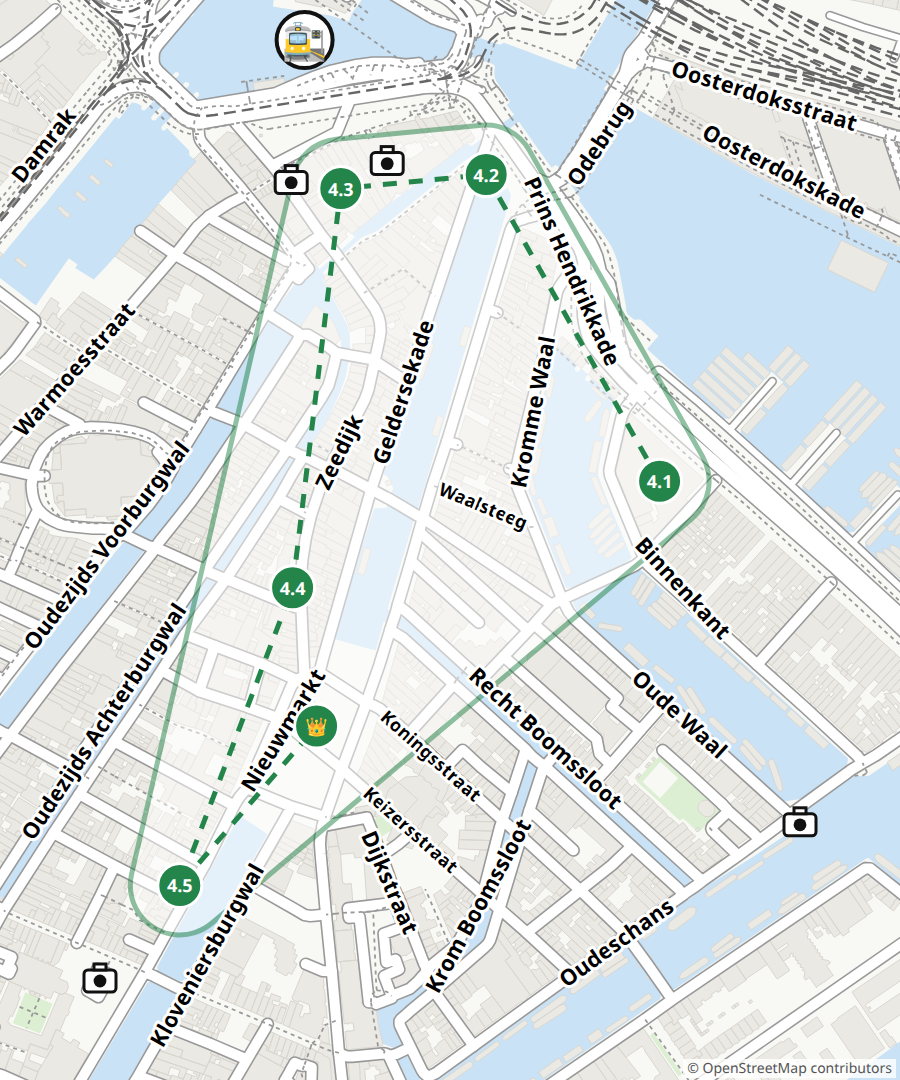
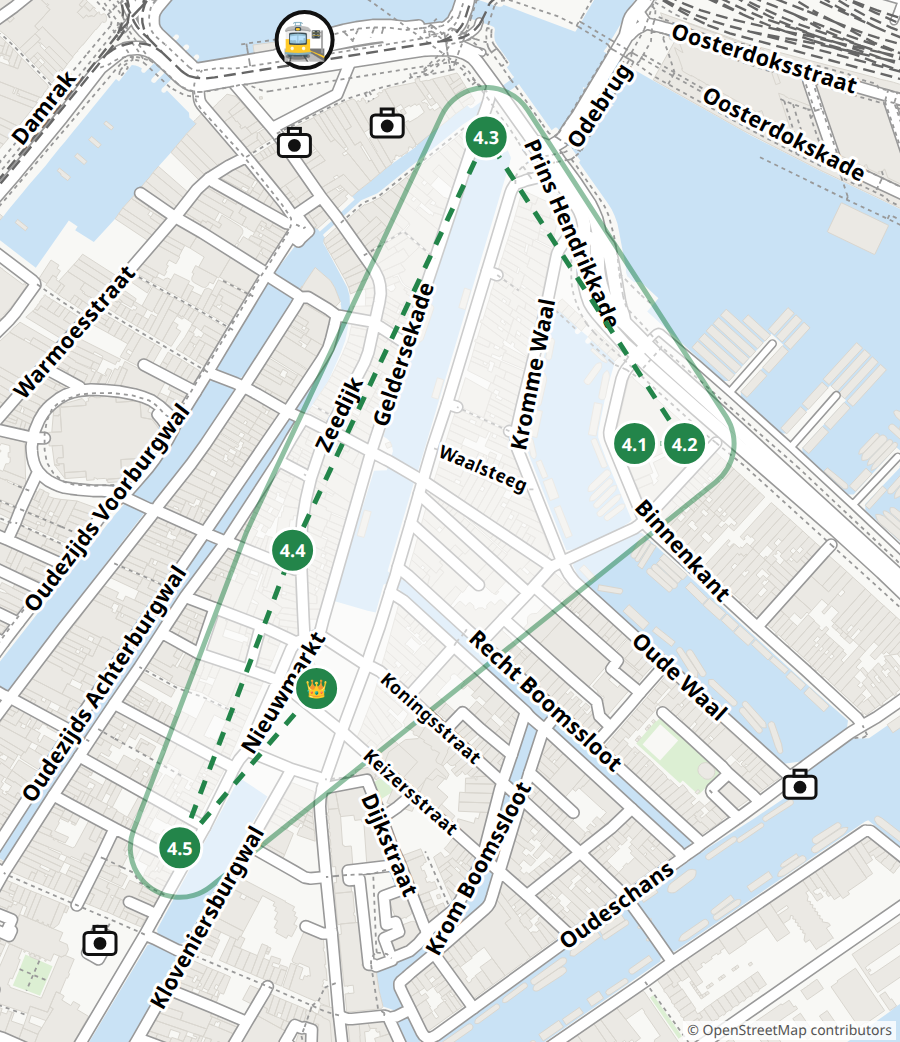
Zone-wide photo hunts without a clock (3.1, 4.1 now first in zone 4); kid cards sit 15 mm off the cut for ring-binder holes; gold city medal sticker for the certificate on the stickers sheet

diff --git a/.claude/skills/city-quest/scripts/build_stickers.py b/.claude/skills/city-quest/scripts/build_stickers.py
@@ -2,24 +2,26 @@
 """Render round zone-capture stickers for one or more quests onto A4: a PDF for sticker paper.
 
 Usage:
-    python3 build_stickers.py path/to/quest.json [more/quest.json …] [--big 3] [--small 2] [--out FILE]
+    python3 build_stickers.py path/to/quest.json [more/quest.json …] [--big 3] [--small 2] [--medal 1] [--out FILE]
 
 Print in colour on A4 sticker paper at 100 % scale and cut along the thin grey circles.
 Every zone gets a block: `--big` stickers of 18 mm (they cover the "sticker" circle on the
 zone card; a spare goes in the collection) and `--small` stickers of 10 mm (for the zone on
 the city map). Each zone has its own colour, the same as in the colour booklet; the big sticker shows "CLAIMED" on top, the zone
-number below and the zone emoji in the middle. Several quests share the sheet to save paper.
+number below and the zone emoji in the middle. Every quest also gets `--medal` 32 mm city stickers
+for the medal circle on the certificate: a gold medal, "CONQUEROR OF <city>" around it, a dot
+for every zone in its colour and the cover emoji under a crown. Several quests share the sheet to save paper.
 Default output: <folder>/<city>-stickers.pdf for one quest, ./stickers.pdf for several.
 """
 import argparse
 import json
+import math
 import tempfile
 from pathlib import Path
 
 from build_quest import LABELS, ZONE_COLOURS, esc, find_chrome, run_chrome, set_language, tint
 
-BIG, SMALL, GAP = 18, 10, 3  # mm
-
+BIG, SMALL, MEDAL, GAP = 18, 10, 32, 3  # mm
 
 
 def big_sticker(zi, z, uid):
@@ -52,6 +54,37 @@ def small_sticker(zi):
 </svg>"""
 
 
+def medal_sticker(q, uid):
+    """A 32 mm sticker for the certificate's medal circle: the whole city claimed."""
+    r = MEDAL / 2
+    n = len(q["zones"])
+    city = q.get("city_local_name") or q["city"] if q.get("language", "ru") == "ru" else q["city"]
+    top, bottom = f"mt{uid}", f"mb{uid}"
+    dots = "".join(
+        f'<circle cx="{r + 9.7 * math.sin(2 * math.pi * k / n):.2f}" cy="{r - 9.7 * math.cos(2 * math.pi * k / n):.2f}" r="1"'
+        f' fill="{ZONE_COLOURS[k % len(ZONE_COLOURS)]}" stroke="#fff" stroke-width=".25"/>'
+        for k in range(n))
+    emoji = q.get("cover", {}).get("emoji", "🏰")
+    size = 8 if len(emoji) <= 2 else 3.6
+    return f"""<svg class="st" viewBox="0 0 {MEDAL} {MEDAL}" style="width:{MEDAL}mm;height:{MEDAL}mm">
+  <defs>
+    <path id="{top}" d="M {r-12},{r} A 12 12 0 0 1 {r+12},{r}"/>
+    <path id="{bottom}" d="M {r-14.1},{r} A 14.1 14.1 0 0 0 {r+14.1},{r}"/>
+    <radialGradient id="g{uid}" cx="40%" cy="35%" r="70%"><stop offset="0" stop-color="#f6d66b"/><stop offset="1" stop-color="#b7860f"/></radialGradient>
+  </defs>
+  <circle class="cut" cx="{r}" cy="{r}" r="{r-.05}"/>
+  <circle cx="{r}" cy="{r}" r="{r-.4}" fill="url(#g{uid})"/>
+  <circle cx="{r}" cy="{r}" r="{r-1.1}" fill="none" stroke="#fff6d8" stroke-width=".25" stroke-dasharray=".5 .5"/>
+  <circle cx="{r}" cy="{r}" r="11.3" fill="#fff8e1" stroke="#8a6300" stroke-width=".4"/>
+  <text class="marc"><textPath href="#{top}" startOffset="50%">{esc(LABELS['conqueror'])}</textPath></text>
+  <text class="marc"><textPath href="#{bottom}" startOffset="50%">★ {esc(city.upper())} ★</textPath></text>
+  {dots}
+  <text class="emoji" x="{r}" y="{r-3}" style="font-size:4.6px">👑</text>
+  <text class="emoji" x="{r}" y="{r+size*.38+1.6}" style="font-size:{size}px">{esc(emoji)}</text>
+  <text class="mnum" x="{r}" y="{r+7.6}">{n}/{n}</text>
+</svg>"""
+
+
 CSS = f"""
 @page {{ size: A4 portrait; margin: 9mm; }}
 * {{ box-sizing: border-box; }}
@@ -64,6 +97,8 @@ h2 {{ font-size: 9pt; margin: 1mm 0 1mm; }}
 .cut {{ fill: #fff; stroke: #aaa; stroke-width: .12; }}
 .arc {{ font-size: 2.1px; font-weight: bold; letter-spacing: .15px; text-anchor: middle; fill: #fff; }}
 .emoji {{ font-size: 5.6px; text-anchor: middle; }}
+.marc {{ font-size: 2.6px; font-weight: bold; letter-spacing: .2px; text-anchor: middle; fill: #4a3200; }}
+.mnum {{ font-size: 2.3px; font-weight: bold; text-anchor: middle; fill: #8a6300; }}
 .num {{ font-size: 5.4px; font-weight: bold; text-anchor: middle; fill: #fff; }}
 .hint {{ font-size: 7pt; color: #777; margin-top: 3mm; }}
 """
@@ -74,6 +109,7 @@ def main():
     ap.add_argument("quests", nargs="+")
     ap.add_argument("--big", type=int, default=3, help="18 mm stickers per zone")
     ap.add_argument("--small", type=int, default=2, help="10 mm stickers per zone")
+    ap.add_argument("--medal", type=int, default=1, help="32 mm city stickers per quest")
     ap.add_argument("--out", help="PDF to write")
     a = ap.parse_args()
     sections, lang = [], "ru"
@@ -86,6 +122,9 @@ def main():
         for zi, z in enumerate(q["zones"], 1):
             st = [big_sticker(zi, z, f"{path.parent.name}{zi}_{k}") for k in range(a.big)] + [small_sticker(zi) for _ in range(a.small)]
             blocks.append(f'<div class="zone"><div class="name"><b>{zi}</b> · {esc(z["name"])}</div><div class="row">{"".join(st)}</div></div>')
+        medals = "".join(medal_sticker(q, f"{path.parent.name}_{k}") for k in range(a.medal))
+        if medals:
+            blocks.append(f'<div class="zone"><div class="name">🏆 {esc(LABELS["certificate"])}</div><div class="row">{medals}</div></div>')
         sections.append(f'<h2>{esc(q.get("title", q.get("city", "")))}</h2><div class="grid">{"".join(blocks)}</div>')
     hint = "Печатать в цвете на A4 бумаге-наклейке в 100 % масштабе, вырезать по тонким серым кругам." if lang == "ru" \
         else "Print in colour on A4 sticker paper at 100 % scale; cut along the thin grey circles."

diff --git a/.claude/skills/city-quest/scripts/build_quest.py b/.claude/skills/city-quest/scripts/build_quest.py
@@ -5,7 +5,7 @@ Usage:
     python3 build_quest.py path/to/quest.json [--out-dir DIR] [--name quest]
 
 The PDF is A4 landscape; every sheet holds two A5 portrait cards (cut along the
-dashed line). Card order: cover, rules, map, zone cards, collection, scorecard,
+dashed line). Kid cards sit 15 mm off the cut, room for ring-binder holes. Card order: cover, rules, map, zone cards, collection, scorecard,
 certificate, then parent pages on their own sheets. With "campaign": true the
 base cards come first and every zone gets its own sheet (zone map + challenges).
 Designed to print well in black and white; with "colour": true in quest.json every zone gets
@@ -77,6 +77,7 @@ LABELS = {
     "certificate_text": "Настоящим подтверждается, что этот отважный путешественник",
     "certificate_text2": "захвачено зон:",
     "medal": "медаль",
+    "conqueror": "ПОКОРИТЕЛЬ",
     "date": "Дата",
     "signature": "Подпись",
     "team": "Команда",
@@ -107,6 +108,7 @@ LABELS = {
 LABELS_F = {
     "certificate_title": "Покорительница города",
     "certificate_text": "Настоящим подтверждается, что эта отважная путешественница",
+    "conqueror": "ПОКОРИТЕЛЬНИЦА",
 }
 
 # Built-in labels for an English quest (`"language": "en"`); the quest's own `labels` still win.
@@ -119,7 +121,7 @@ LABELS_EN = {
     "claimed_col": "Claimed", "duels": "Duels", "kid": "Me", "parents": "Parents", "total": "Total coins",
     "spent": "Coins spent", "certificate": "Certificate", "certificate_title": "Conqueror of",
     "certificate_text": "This certifies that this brave traveller", "certificate_text2": "zones claimed:",
-    "medal": "medal", "date": "Date", "signature": "Signature", "team": "Team", "parent_pages": "For parents",
+    "medal": "medal", "conqueror": "CONQUEROR OF", "date": "Date", "signature": "Signature", "team": "Team", "parent_pages": "For parents",
     "answers": "Answers and hints", "parent_zone": "for parents", "measures": "My measures (measure at home with a tape):",
     "plan": "Plan", "curses": "City curses", "perks": "What coins buy", "hotel": "Start",
     "shopping": "Bring / buy", "notes": "Notes", "bookings": "Tickets and bookings", "b_when": "When",
@@ -1132,6 +1134,9 @@ a { color: inherit; }
 .sheet:last-child { page-break-after: auto; }
 .sheet::after { content: "✂"; position: absolute; left: 148.5mm; top: 0; bottom: 0; border-left: 0.4mm dashed #999; color: #999; font-size: 10pt; padding-left: 1mm; }
 .card { width: 148.5mm; height: 210mm; padding: 7mm; overflow: hidden; }
+/* kid sheets are cut in the middle and filed in a ring binder: a hole margin at the cut edge */
+.binder > .card:first-child { padding: 7mm 15mm 7mm 4mm; }
+.binder > .card:last-child { padding: 7mm 4mm 7mm 15mm; }
 .fit { height: 100%; overflow: hidden; border: 1mm solid var(--c, #333); border-radius: 6mm; padding: 5mm 5.5mm; font-size: 11pt; line-height: 1.3; display: flex; flex-direction: column; }
 h1 { font-size: 2.1em; margin: .2em 0; line-height: 1.1; }
 h2 { font-size: 1.45em; margin: 0 0 .35em; line-height: 1.15; }
@@ -1327,10 +1332,11 @@ def build_html(q, map_html, zone_maps=None):
     # parent pages start on their own sheet so they can be kept apart from the kid's cards
     if len(cards) % 2:
         cards.append(notes_card())
+    kid = len(cards)
     cards += [parent_plan_card(q)] + bookings_cards(q, int(q.get("bookings_per_card", 4))) + parent_answer_cards(q, per_card)
     if len(cards) % 2:
         cards.append(notes_card())
-    sheets = "".join(f'<div class="sheet">{cards[k]}{cards[k+1]}</div>' for k in range(0, len(cards), 2))
+    sheets = "".join(f'<div class="sheet{" binder" if k < kid else ""}">{cards[k]}{cards[k+1]}</div>' for k in range(0, len(cards), 2))
     return page(q.get("title", q["city"]), sheets, q.get("language", "ru"))
 
 

diff --git a/.claude/skills/city-quest/references/challenge-design.md b/.claude/skills/city-quest/references/challenge-design.md
@@ -60,12 +60,15 @@ dislikes something, reduce it rather than drop it. Rough targets for a
 translator/ordering tasks.
 
 **More sights than slots.** When a zone passes more landmarks than it has task slots, bundle
-the extras into one photo hunt: "in 30 minutes, photograph these 4 spots" (any order, the
-clock starts at the first photo). The kid must find each target alone: put every target on the
+the extras into one zone-wide photo hunt: "while you walk the zone, photograph these 4 spots,
+any order, before the boss". No clock: targets can be 10 minutes apart, and a timer spoils
+enjoying the walk (it also leaves the zone's ⏱ slot for another task). Make it the zone's first
+challenge, its stop at or near the first target, so the kid has the list from the start; it
+can then take in targets further apart. The kid must find each target alone: put every target on the
 zone map as a camera icon (`spots`), then the card can just name them; targets off the map need
 their look and place on the card ("a brick tower with a white top, by the Oudeschans canal"). Prefer targets that are easy to recognise (a wooden house, a
 church with two towers, a leaning tower). Or hunt a category instead of named spots: "photograph
-3 different towers / coloured doors / houses with columns in 20 minutes". Duels and food are not needed in every zone; a seasonal task
+3 different towers / coloured doors / houses with columns in this zone". Duels and food are not needed in every zone; a seasonal task
 is fine when the card names the season. For a home-city campaign played over months, don't tie
 tasks to one month; mention season-only extras instead (goat kids in spring).
 

diff --git a/.claude/agents/quest-reviewer.md b/.claude/agents/quest-reviewer.md
@@ -79,10 +79,11 @@ to borrow from for rewrites.
   facades, bridges, viewpoints — from the report's passed/detour POIs and the zone's area) and
   mark which ones a task photographs or interacts with. Name the ones the family would walk
   past unseen or miss entirely, and propose a photo or hands-on task for each, or a reroute.
-  When there are more sights than task slots, propose one photo hunt: "in 30 minutes, photograph
-  these 4 spots" (any order). Every hunt target must be findable by the kid: on the zone map as a
-  camera icon (`spots`), or described on the card by its look and where it is; or the hunt asks for a category ("3 different towers in 20
-  minutes"). Flag a target an unfamiliar kid can't recognise from the card.
+  When there are more sights than task slots, propose one zone-wide photo hunt as the zone's
+  first challenge: "while you walk the zone, photograph these 4 spots before the boss" (any order,
+  no time limit; flag a hunt with a clock). Every hunt target must be findable by the kid: on the zone map as a
+  camera icon (`spots`), or described on the card by its look and where it is; or the hunt asks for a category ("3 different towers in this
+  zone"). Flag a target an unfamiliar kid can't recognise from the card.
 - Ticketed venues: all challenges inside one paid venue (museum, zoo, tower) must come one
   after another on the route, with no challenge outside in between, because leaving means
   paying again to re-enter. If an outside event (a parade, an arrival, a show) has to happen

diff --git a/.claude/skills/city-quest/SKILL.md b/.claude/skills/city-quest/SKILL.md
@@ -277,8 +277,8 @@ the main quest's (`quest-map*.png`, `quest-pins.json`).
 **Stickers.** `python3 .claude/skills/city-quest/scripts/build_stickers.py <folder>/quest.json [other/quest.json …]`
 writes a colour A4 sheet of round zone-capture stickers for sticker paper (`<city>-stickers.pdf`,
 or `stickers.pdf` for several quests on one sheet): per zone 3 × 18 mm (they cover the sticker
-circle on the zone card) and 2 × 10 mm (for the city map), one colour per zone; `--big`/`--small`
-change the counts.
+circle on the zone card) and 2 × 10 mm (for the city map), one colour per zone, plus one 32 mm
+gold city medal for the certificate's medal circle; `--big`/`--small`/`--medal` change the counts.
 
 **Website.** `python3 .claude/skills/city-quest/scripts/build_site.py`
 renders every city and language into the git-ignored `site/` folder (`--out
@@ -291,8 +291,9 @@ Then look at the result: view `quest-map.png`, and render the zone cards with
 route, overlapping labels or crowded cards.
 
 Tell the user where the files are, the zones with timing, and anything to
-verify on the spot. Mention that sheets are cut along the dashed line, parent
-pages are the last sheets, and ~2 cm stickers are needed for claiming zones.
+verify on the spot. Mention that sheets are cut along the dashed line (kid cards keep a
+15 mm margin at the cut for ring-binder holes), parent pages are the last sheets, and
+stickers come from `build_stickers.py`.
 
 ### 7. Remember
 
